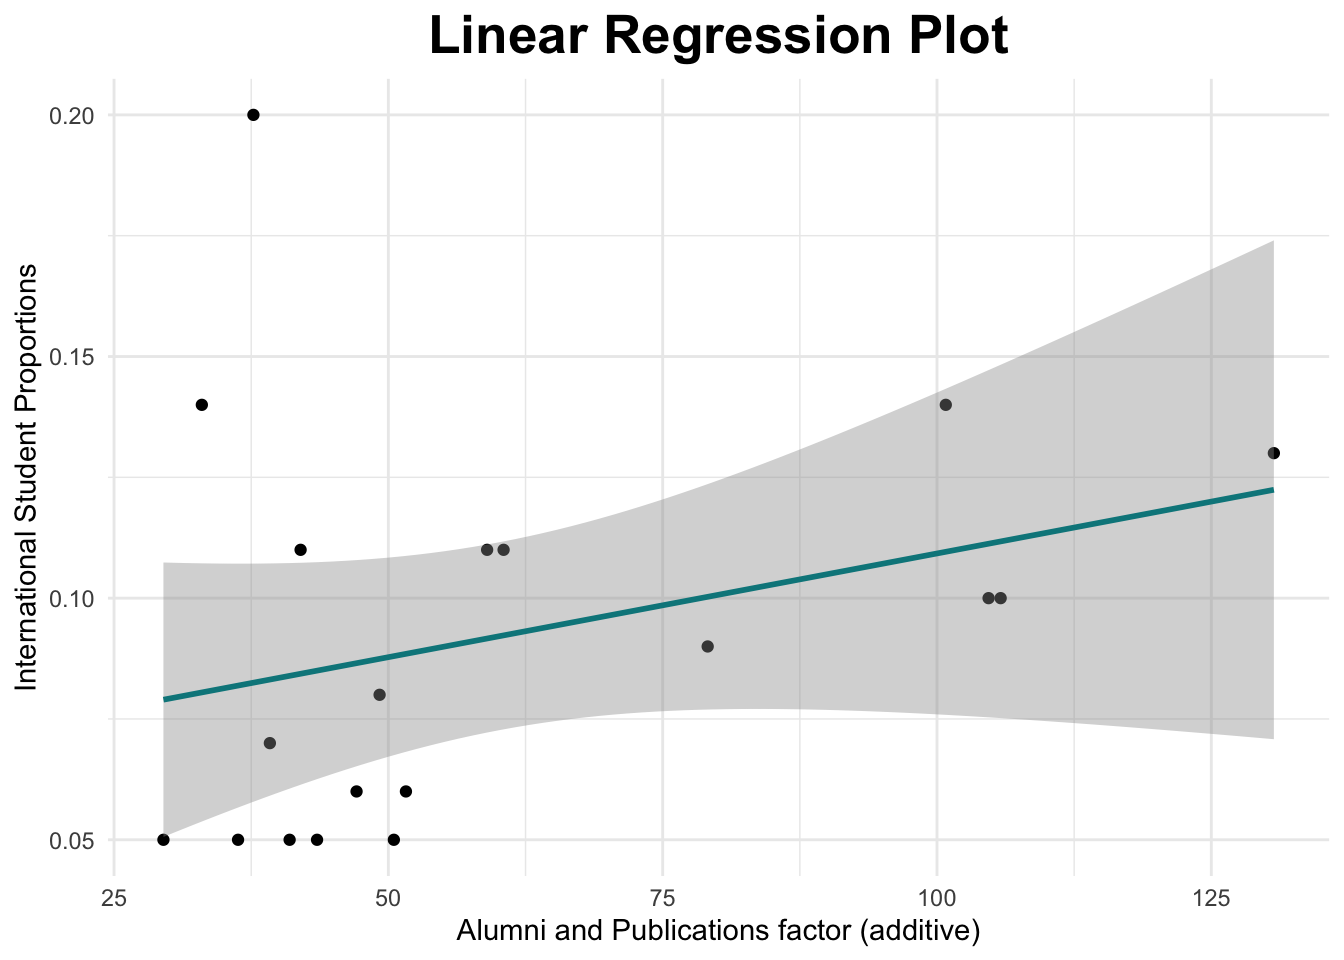
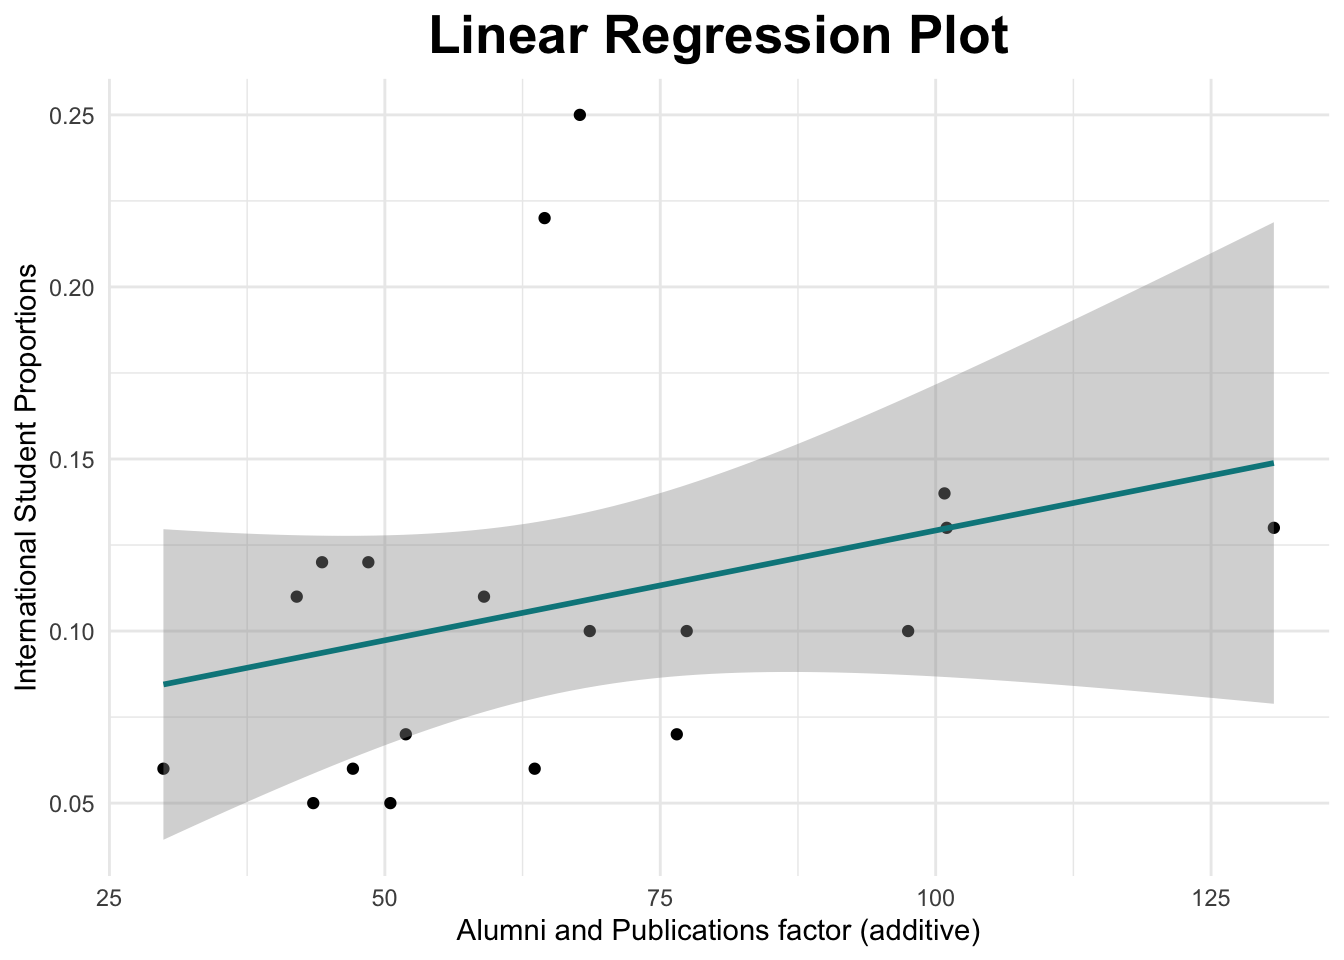
Updated thesis

diff --git a/content/post/2022-11-04-data-analysis-2-modeling-fitting/index.en.html b/content/post/2022-11-04-data-analysis-2-modeling-fitting/index.en.html
@@ -48,19 +48,19 @@ summary(linear_model)</code></pre>
 ## lm(formula = y ~ x, data = train)
 ## 
 ## Residuals:
-##      Min       1Q   Median       3Q      Max 
-## -0.06487 -0.03909 -0.01451  0.01445  0.13639 
+##       Min        1Q    Median        3Q       Max 
+## -0.058461 -0.033560 -0.009891  0.020582  0.127273 
 ## 
 ## Coefficients:
 ##              Estimate Std. Error t value Pr(&gt;|t|)    
-## (Intercept) 0.0988541  0.0188067   5.256 5.21e-06 ***
-## x           0.0002179  0.0002311   0.943    0.351    
+## (Intercept) 0.0896814  0.0159245   5.632 1.56e-06 ***
+## x           0.0002555  0.0002000   1.278    0.209    
 ## ---
 ## Signif. codes:  0 &#39;***&#39; 0.001 &#39;**&#39; 0.01 &#39;*&#39; 0.05 &#39;.&#39; 0.1 &#39; &#39; 1
 ## 
-## Residual standard error: 0.05044 on 40 degrees of freedom
-## Multiple R-squared:  0.02175,    Adjusted R-squared:  -0.002705 
-## F-statistic: 0.8894 on 1 and 40 DF,  p-value: 0.3513</code></pre>
+## Residual standard error: 0.04637 on 40 degrees of freedom
+## Multiple R-squared:  0.03921,    Adjusted R-squared:  0.01519 
+## F-statistic: 1.632 on 1 and 40 DF,  p-value: 0.2088</code></pre>
 <pre class="r"><code>ggplot(test,aes(x, y)) +
   geom_point() +
   geom_smooth(method=&quot;lm&quot;, se=TRUE, color=&quot;turquoise4&quot;) +
@@ -84,20 +84,20 @@ summary(g_model1)</code></pre>
 ## 
 ## Deviance Residuals: 
 ##      Min        1Q    Median        3Q       Max  
-## -0.22576  -0.12881  -0.04508   0.04510   0.37960  
+## -0.20694  -0.11145  -0.03224   0.06368   0.35846  
 ## 
 ## Coefficients:
 ##              Estimate Std. Error z value Pr(&gt;|z|)  
-## (Intercept) -2.195999   1.160760  -1.892   0.0585 .
-## x            0.002071   0.013896   0.149   0.8815  
+## (Intercept) -2.297293   1.103148  -2.082   0.0373 *
+## x            0.002547   0.013347   0.191   0.8487  
 ## ---
 ## Signif. codes:  0 &#39;***&#39; 0.001 &#39;**&#39; 0.01 &#39;*&#39; 0.05 &#39;.&#39; 0.1 &#39; &#39; 1
 ## 
 ## (Dispersion parameter for binomial family taken to be 1)
 ## 
-##     Null deviance: 0.96572  on 41  degrees of freedom
-## Residual deviance: 0.94398  on 40  degrees of freedom
-## AIC: 14.265
+##     Null deviance: 0.89275  on 41  degrees of freedom
+## Residual deviance: 0.85730  on 40  degrees of freedom
+## AIC: 13.591
 ## 
 ## Number of Fisher Scoring iterations: 5</code></pre>
 <pre class="r"><code>summary(g_model2)</code></pre>
@@ -107,19 +107,19 @@ summary(g_model1)</code></pre>
 ## 
 ## Deviance Residuals: 
 ##      Min        1Q    Median        3Q       Max  
-## -0.22576  -0.12881  -0.04508   0.04510   0.37960  
+## -0.20694  -0.11145  -0.03224   0.06368   0.35846  
 ## 
 ## Coefficients:
 ##              Estimate Std. Error t value Pr(&gt;|t|)    
-## (Intercept) -2.195999   0.184480 -11.904 1.01e-14 ***
-## x            0.002071   0.002208   0.938    0.354    
+## (Intercept) -2.297293   0.166431 -13.803   &lt;2e-16 ***
+## x            0.002547   0.002014   1.265    0.213    
 ## ---
 ## Signif. codes:  0 &#39;***&#39; 0.001 &#39;**&#39; 0.01 &#39;*&#39; 0.05 &#39;.&#39; 0.1 &#39; &#39; 1
 ## 
-## (Dispersion parameter for quasibinomial family taken to be 0.02525898)
+## (Dispersion parameter for quasibinomial family taken to be 0.02276159)
 ## 
-##     Null deviance: 0.96572  on 41  degrees of freedom
-## Residual deviance: 0.94398  on 40  degrees of freedom
+##     Null deviance: 0.89275  on 41  degrees of freedom
+## Residual deviance: 0.85730  on 40  degrees of freedom
 ## AIC: NA
 ## 
 ## Number of Fisher Scoring iterations: 5</code></pre>
@@ -129,21 +129,21 @@ summary(g_model1)</code></pre>
 ## glm(formula = y ~ x, family = gaussian(), data = train)
 ## 
 ## Deviance Residuals: 
-##      Min        1Q    Median        3Q       Max  
-## -0.06487  -0.03909  -0.01451   0.01445   0.13639  
+##       Min         1Q     Median         3Q        Max  
+## -0.058461  -0.033560  -0.009891   0.020582   0.127273  
 ## 
 ## Coefficients:
 ##              Estimate Std. Error t value Pr(&gt;|t|)    
-## (Intercept) 0.0988541  0.0188067   5.256 5.21e-06 ***
-## x           0.0002179  0.0002311   0.943    0.351    
+## (Intercept) 0.0896814  0.0159245   5.632 1.56e-06 ***
+## x           0.0002555  0.0002000   1.278    0.209    
 ## ---
 ## Signif. codes:  0 &#39;***&#39; 0.001 &#39;**&#39; 0.01 &#39;*&#39; 0.05 &#39;.&#39; 0.1 &#39; &#39; 1
 ## 
-## (Dispersion parameter for gaussian family taken to be 0.002544669)
+## (Dispersion parameter for gaussian family taken to be 0.00214995)
 ## 
-##     Null deviance: 0.10405  on 41  degrees of freedom
-## Residual deviance: 0.10179  on 40  degrees of freedom
-## AIC: -127.76
+##     Null deviance: 0.089507  on 41  degrees of freedom
+## Residual deviance: 0.085998  on 40  degrees of freedom
+## AIC: -134.84
 ## 
 ## Number of Fisher Scoring iterations: 2</code></pre>
 <pre class="r"><code>summary(g_model4)</code></pre>
@@ -153,19 +153,19 @@ summary(g_model1)</code></pre>
 ## 
 ## Deviance Residuals: 
 ##      Min        1Q    Median        3Q       Max  
-## -0.21522  -0.12195  -0.04234   0.04240   0.34921  
+## -0.19764  -0.10565  -0.03048   0.05981   0.33065  
 ## 
 ## Coefficients:
 ##              Estimate Std. Error z value Pr(&gt;|z|)  
-## (Intercept) -2.299738   1.089604  -2.111   0.0348 *
-## x            0.001822   0.012987   0.140   0.8884  
+## (Intercept) -2.390775   1.039866  -2.299   0.0215 *
+## x            0.002256   0.012507   0.180   0.8569  
 ## ---
 ## Signif. codes:  0 &#39;***&#39; 0.001 &#39;**&#39; 0.01 &#39;*&#39; 0.05 &#39;.&#39; 0.1 &#39; &#39; 1
 ## 
 ## (Dispersion parameter for poisson family taken to be 1)
 ## 
-##     Null deviance: 0.84564  on 41  degrees of freedom
-## Residual deviance: 0.82647  on 40  degrees of freedom
+##     Null deviance: 0.79073  on 41  degrees of freedom
+## Residual deviance: 0.75925  on 40  degrees of freedom
 ## AIC: Inf
 ## 
 ## Number of Fisher Scoring iterations: 5</code></pre>
@@ -175,21 +175,21 @@ summary(g_model1)</code></pre>
 ## glm(formula = y ~ x, family = inverse.gaussian(), data = train)
 ## 
 ## Deviance Residuals: 
-##    Min      1Q  Median      3Q     Max  
-## -2.515  -1.216  -0.360   0.365   2.417  
+##     Min       1Q   Median       3Q      Max  
+## -2.3896  -1.1247  -0.3334   0.5201   2.3688  
 ## 
 ## Coefficients:
 ##             Estimate Std. Error t value Pr(&gt;|t|)    
-## (Intercept)  94.9330    24.0232   3.952 0.000307 ***
-## x            -0.2497     0.2663  -0.938 0.354092    
+## (Intercept) 111.8558    25.0361   4.468 6.34e-05 ***
+## x            -0.3417     0.2708  -1.262    0.214    
 ## ---
 ## Signif. codes:  0 &#39;***&#39; 0.001 &#39;**&#39; 0.01 &#39;*&#39; 0.05 &#39;.&#39; 0.1 &#39; &#39; 1
 ## 
-## (Dispersion parameter for inverse.gaussian family taken to be 1.746614)
+## (Dispersion parameter for inverse.gaussian family taken to be 1.844287)
 ## 
-##     Null deviance: 69.446  on 41  degrees of freedom
-## Residual deviance: 68.084  on 40  degrees of freedom
-## AIC: -138.12
+##     Null deviance: 76.248  on 41  degrees of freedom
+## Residual deviance: 73.747  on 40  degrees of freedom
+## AIC: -143
 ## 
 ## Number of Fisher Scoring iterations: 6</code></pre>
 <pre class="r"><code>summary(g_model6)</code></pre>
@@ -198,21 +198,21 @@ summary(g_model1)</code></pre>
 ## glm(formula = y ~ x, family = Gamma(), data = train)
 ## 
 ## Deviance Residuals: 
-##     Min       1Q   Median       3Q      Max  
-## -0.7280  -0.3903  -0.1235   0.1245   0.9110  
+##      Min        1Q    Median        3Q       Max  
+## -0.68058  -0.33818  -0.09867   0.17544   0.87649  
 ## 
 ## Coefficients:
 ##             Estimate Std. Error t value Pr(&gt;|t|)    
-## (Intercept)  9.84962    1.40477   7.012 1.81e-08 ***
-## x           -0.01514    0.01619  -0.935    0.355    
+## (Intercept) 10.73560    1.37082   7.832 1.34e-09 ***
+## x           -0.01974    0.01571  -1.256    0.216    
 ## ---
 ## Signif. codes:  0 &#39;***&#39; 0.001 &#39;**&#39; 0.01 &#39;*&#39; 0.05 &#39;.&#39; 0.1 &#39; &#39; 1
 ## 
-## (Dispersion parameter for Gamma family taken to be 0.1975445)
+## (Dispersion parameter for Gamma family taken to be 0.1935332)
 ## 
-##     Null deviance: 7.3879  on 41  degrees of freedom
-## Residual deviance: 7.2260  on 40  degrees of freedom
-## AIC: -136.59
+##     Null deviance: 7.4960  on 41  degrees of freedom
+## Residual deviance: 7.2147  on 40  degrees of freedom
+## AIC: -142.15
 ## 
 ## Number of Fisher Scoring iterations: 5</code></pre>
 <pre class="r"><code>y_predict1 &lt;- data.frame(x = test$x, y =predict(g_model1, test, type = &quot;response&quot;))
